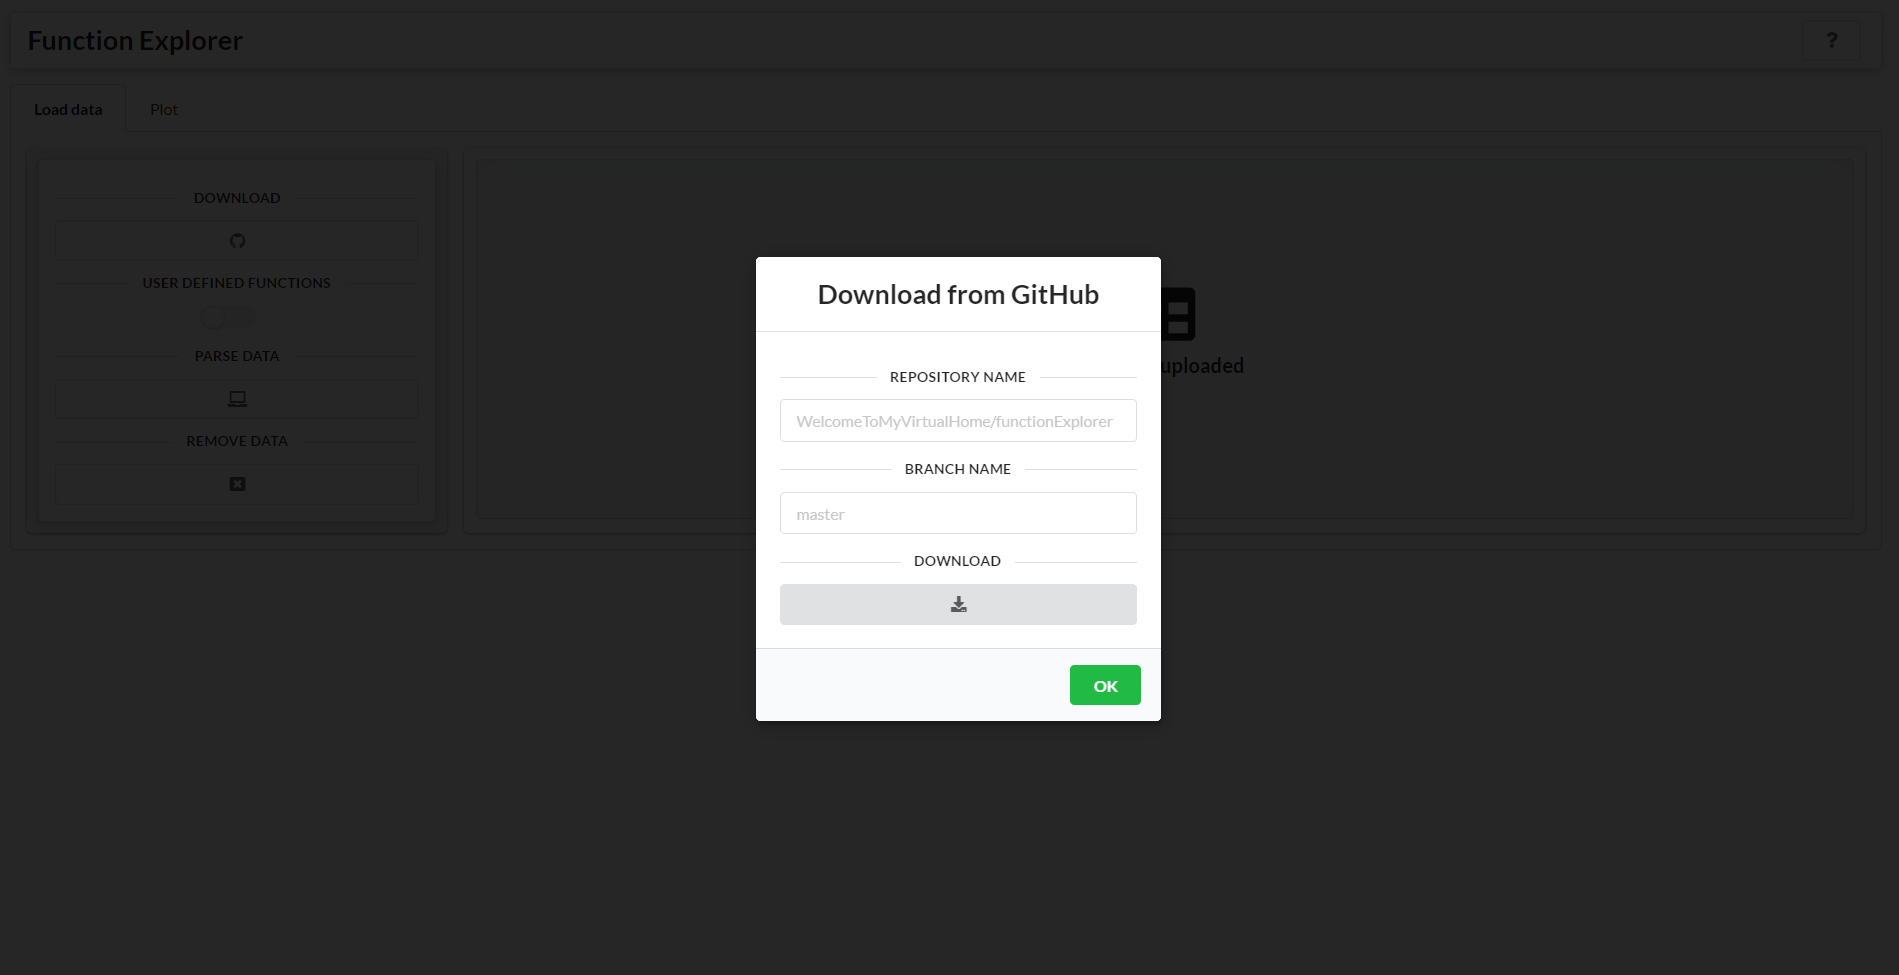
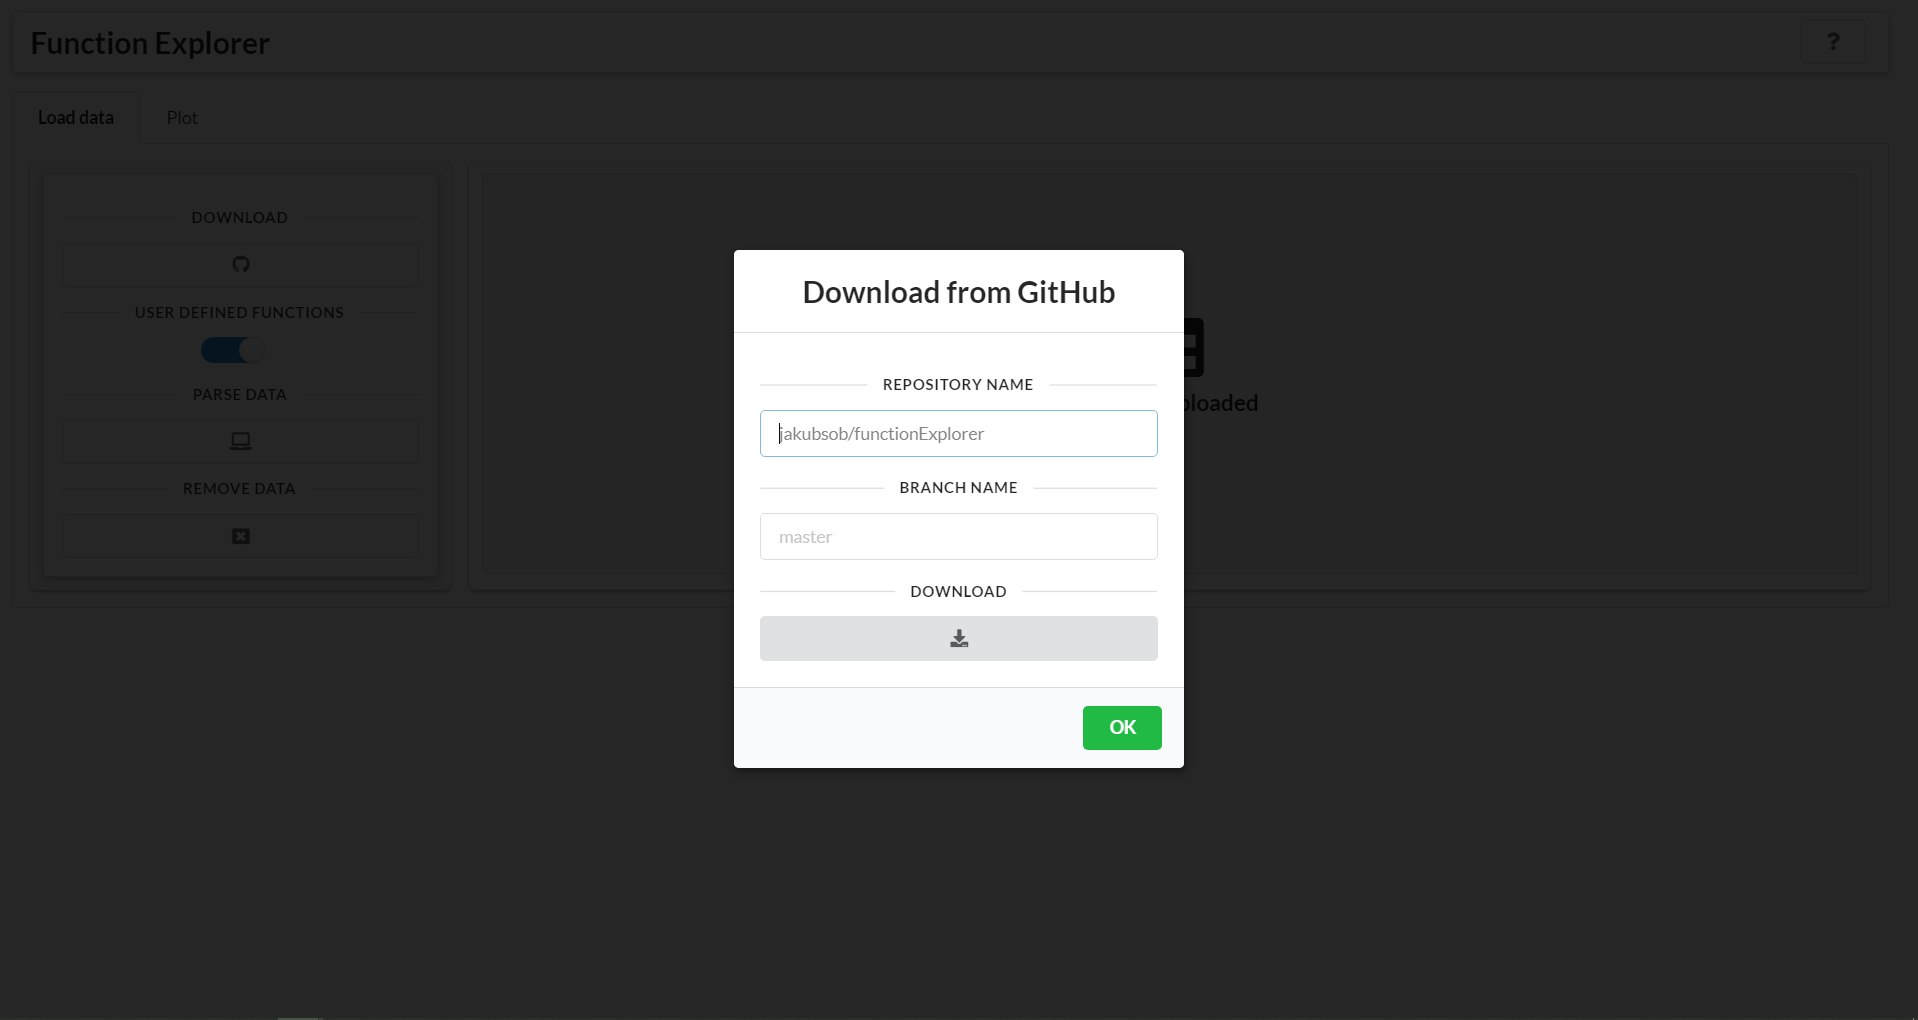
Removed unnecessary data, fomatic data table, refactor, updated README

diff --git a/README.md b/README.md
@@ -6,18 +6,24 @@
 <!-- badges: start -->
 
 [![R build
-status](https://github.com/WelcomeToMyVirtualHome/functionExplorer/workflows/R-CMD-check/badge.svg)](https://github.com/WelcomeToMyVirtualHome/functionExplorer/actions)
+status](https://github.com/jakubsob/functionExplorer/workflows/R-CMD-check/badge.svg)](https://github.com/jakubsob/functionExplorer/actions)
+[![license](https://img.shields.io/badge/license-mit-lightgrey.svg)](https://choosealicense.com/)
+[![Lifecycle:
+experimental](https://img.shields.io/badge/lifecycle-experimental-orange.svg)](https://www.tidyverse.org/lifecycle/#experimental)
 <!-- badges: end -->
+
+An app for exploring dependencies between functions from selected GitHub
+repository.
 
 ## Installation
 
-Download development version from GitHub:
+Install from GitHub:
 
 ``` r
-devtools::install_github("WelcomeToMyVirtualHome/functionExplorer")
+devtools::install_github("jakubsob/functionExplorer")
 ```
 
-To run:
+and run:
 
 ``` r
 functionExplorer::run_app()
@@ -28,11 +34,8 @@ functionExplorer::run_app()
 <div class="figure">
 
 <img src="man/figures/README-load-data.png" alt="Start page of app." width="100%" />
-
 <p class="caption">
-
 Start page of app.
-
 </p>
 
 </div>
@@ -40,11 +43,17 @@ Start page of app.
 <div class="figure">
 
 <img src="man/figures/README-load-data-popup.png" alt="Data downloading popup." width="100%" />
-
 <p class="caption">
-
 Data downloading popup.
+</p>
 
+</div>
+
+<div class="figure">
+
+<img src="man/figures/README-downloaded-data.png" alt="Tables with loaded and parsed data." width="100%" />
+<p class="caption">
+Tables with loaded and parsed data.
 </p>
 
 </div>
@@ -52,11 +61,8 @@ Data downloading popup.
 <div class="figure">
 
 <img src="man/figures/README-plot-all.png" alt="Function dependencies network." width="100%" />
-
 <p class="caption">
-
 Function dependencies network.
-
 </p>
 
 </div>
@@ -64,11 +70,8 @@ Function dependencies network.
 <div class="figure">
 
 <img src="man/figures/README-plot-node.png" alt="Function dependencies network with selected node." width="100%" />
-
 <p class="caption">
-
 Function dependencies network with selected node.
-
 </p>
 
 </div>
